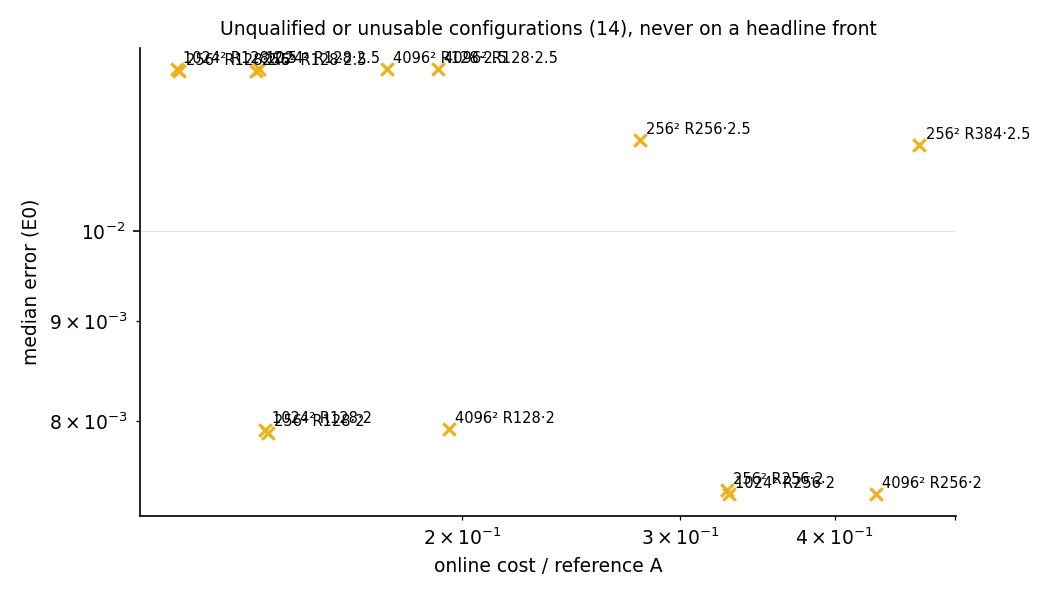
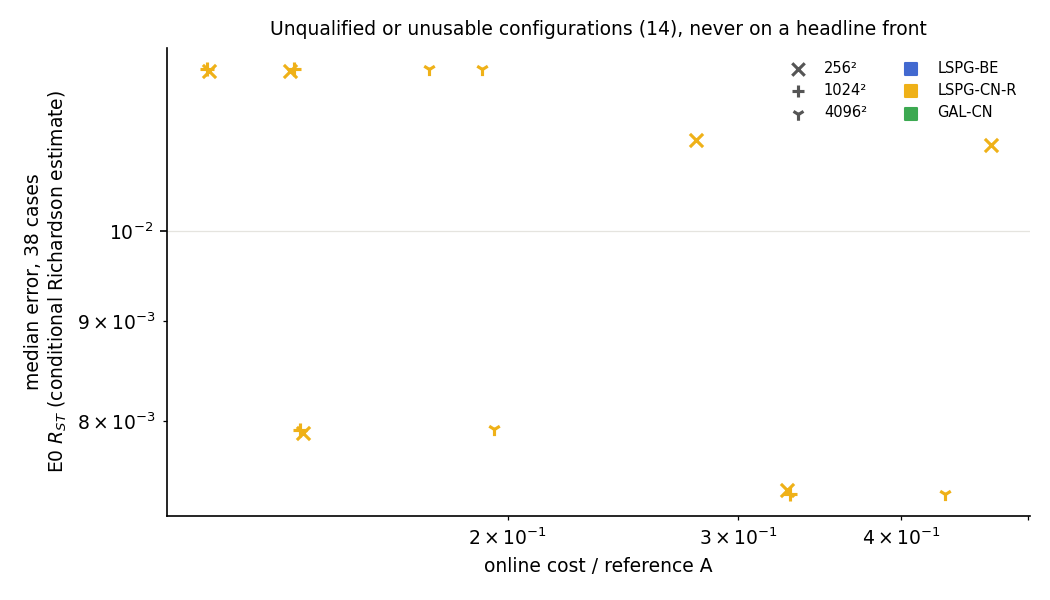
mirror of b1feb6336: jcp-qualify: report audit 1 fixes (dominance formula, round-limit disclosure, E0 caveats near tables, plots incl. error vs N and conditioning, glossary, LaTeX)

diff --git a/experiments/jcp-qualify/make_report.py b/experiments/jcp-qualify/make_report.py
@@ -30,6 +30,10 @@ def g(x, d=3):
     return '—' if x is None else (f'{x:.{d}g}' if isinstance(x, (int, float)) else str(x))
 
 
+def olab(x):
+    return str(x).replace('dt0..dt0/4', '$\\Delta t_0\\dots\\Delta t_0/4$')
+
+
 def esc(x):
     return str(x).replace('|', ' \\| ')
 
@@ -73,7 +77,9 @@ def plots():
                 ax.scatter(v['c'], v[stat], s=26 + 8 * (c['r'] // 128), color=COL[key], alpha=1 if on else .35,
                            edgecolor='#0b0b0b' if on else 'none', linewidth=.8, zorder=3 if on else 2)
                 if on:
-                    ax.annotate(f"R{c['r']}·{g(c['factor'])}", (v['c'], v[stat]), xytext=(4, 3), textcoords='offset points', fontsize=7)
+                    i_ = sorted(front, key=lambda kk: cand[kk]['c']).index(k)
+                    ax.annotate(f"R{c['r']}·{g(c['factor'])}", (v['c'], v[stat]), xytext=(5, 6 if i_ % 2 == 0 else -10),
+                                textcoords='offset points', fontsize=6.5)
             pts = sorted((cand[k]['c'], cand[k][stat]) for k in front)
             if pts:
                 ax.plot(*zip(*pts), color='#0b0b0b', lw=.8, zorder=1)
@@ -95,13 +101,17 @@ def plots():
     for m, k, v in rows:
         c = parse(k)
         if v.get('c') and v.get('median'):
-            ax.scatter(v['c'], v['median'], color=COL[c['form'] + '|' + c['scheme']], marker='x')
-            ax.annotate(f"{m}² R{c['r']}·{g(c['factor'])}", (v['c'], v['median']), xytext=(3, 3), textcoords='offset points', fontsize=7)
+            ax.scatter(v['c'], v['median'], color=COL[c['form'] + '|' + c['scheme']], marker={'256': 'x', '1024': '+', '4096': '1'}[m], s=40)
     ax.set_xscale('log')
     ax.set_yscale('log')
     ax.set_title(f'Unqualified or unusable configurations ({len(rows)}), never on a headline front', fontsize=9)
     ax.set_xlabel('online cost / reference A')
-    ax.set_ylabel('median error (E0)')
+    ax.set_ylabel(f'median error, 38 cases\n{LBL}')
+    for m, mk in (('256', 'x'), ('1024', '+'), ('4096', '1')):
+        ax.scatter([], [], marker=mk, color='#555555', label=f'{m}²')
+    for key, col in COL.items():
+        ax.scatter([], [], marker='s', color=col, label=SCH[key])
+    ax.legend(frameon=False, fontsize=7, ncol=2)
     fig.tight_layout()
     fig.savefig(pd / 'unqualified.png', dpi=150)
     plt.close(fig)
@@ -128,6 +138,53 @@ def plots():
     fig.savefig(pd / 'error_vs_r.png', dpi=150)
     plt.close(fig)
     made.append('plots/error_vs_r.png')
+    # error vs N per r (LSPG-CN-R and GAL-CN at dt0, BE at dt0), qualified only
+    fig, axs = plt.subplots(1, 3, figsize=(13, 4), sharey=True)
+    for ax, (form, sc) in zip(axs, (('LSPG', 'BE'), ('LSPG', 'CNR'), ('GAL', 'CN'))):
+        for r, col in zip((128, 256, 384, 512), ('#4269d0', '#efb118', '#3ca951', '#ff725c')):
+            for f, ls in ((1., '-'), (2., '--')):
+                xs, ys = [], []
+                for m in MESHES:
+                    v = C.get(f'{m}|R{r}|{form}|{sc}|{f:g}')
+                    if v and v['numerically_qualified']:
+                        xs.append(int(m))
+                        ys.append(v['stats']['median'])
+                if xs:
+                    ax.plot(xs, ys, marker='o', ls=ls, color=col, label=f'R{r} {g(f)}Δt₀')
+        ax.set_xscale('log', base=2)
+        ax.set_yscale('log')
+        ax.set_xticks([256, 1024, 4096])
+        ax.set_xticklabels(['256²', '1024²', '4096²'])
+        ax.set_title(SCH[form + '|' + sc], fontsize=9)
+        ax.set_xlabel('mesh N')
+    axs[0].set_ylabel(f'median error, 38 cases\n{LBL}')
+    axs[-1].legend(frameon=False, fontsize=7, ncol=2)
+    fig.tight_layout()
+    fig.savefig(pd / 'error_vs_N.png', dpi=150)
+    plt.close(fig)
+    made.append('plots/error_vs_N.png')
+    # conditioning vs r (Q3, 1024^2)
+    fig, ax = plt.subplots(figsize=(7, 4))
+    for (form, sc), mk in ((('LSPG', 'BE'), 'o'), (('LSPG', 'CNR'), 's'), (('GAL', 'CN'), '^')):
+        for f, ls in ((1., '-'), (2., '--')):
+            xs, ys = [], []
+            for r in (128, 256, 384, 512):
+                v = C.get(f'1024|R{r}|{form}|{sc}|{f:g}')
+                if v and v.get('q3'):
+                    xs.append(r)
+                    ys.append(v['q3']['J_cond_median'])
+            if xs:
+                ax.plot(xs, ys, marker=mk, ls=ls, color=COL[form + '|' + sc], label=f"{SCH[form + '|' + sc]} {g(f)}Δt₀")
+    ax.set_yscale('log')
+    ax.set_xticks([128, 256, 384, 512])
+    ax.set_xlabel('bank width r')
+    ax.set_ylabel('median cond(step Jacobian), dev6, outputs 1, 3, 5')
+    ax.set_title('Q3 conditioning at 1024² (lane configurations; P1 Δt₀ LSPG values in P1 report)', fontsize=9)
+    ax.legend(frameon=False, fontsize=7)
+    fig.tight_layout()
+    fig.savefig(pd / 'conditioning_vs_r.png', dpi=150)
+    plt.close(fig)
+    made.append('plots/conditioning_vs_r.png')
     # B4
     B4 = AN.get('B4', {})
     keys = [k for k in B4 if k != 'TH06_control' and isinstance(B4[k], dict) and 'cases' in B4[k]]
@@ -202,10 +259,10 @@ def main():
             w(f"- **Front at {m}²:** {len(f['fronts']['median|c'])} median-front and {len(f['fronts']['worst|c'])} worst-front members among {len(f['candidates'])} qualified candidates; {len(f['unqualified'])} configurations unqualified or without usable timing.")
             cnt = lambda st: ', '.join(f"{SCH[x]} {sum(1 for k in f['fronts'][st] if parse(k)['form'] + '|' + parse(k)['scheme'] == x)}" for x in SCH)
             lo = min(f['fronts']['median|c'], key=lambda k: f['candidates'][k]['median'])
-            w(f"  Median front by scheme: {cnt('median|c')}; worst front: {cnt('worst|c')}. Most accurate median-front member: {name(lo)} at {pct(f['candidates'][lo]['median'])} median, cost {g(f['candidates'][lo]['c'])}× A.")
+            w(f"  (Errors: conditional E0 estimates.) Median front by scheme: {cnt('median|c')}; worst front: {cnt('worst|c')}. Most accurate median-front member: {name(lo)} at {pct(f['candidates'][lo]['median'])} median, cost {g(f['candidates'][lo]['c'])}× A.")
     for k, v in AN.get('B4', {}).items():
         if k != 'TH06_control' and isinstance(v, dict) and isinstance(v.get('label'), dict):
-            w(f"- **B4 {k.replace('|', ' ').replace('_', ' ').replace('CNR', 'CN-R').replace('LSPG ', 'LSPG-').replace('GAL ', 'GAL-')}:** {v['label']['label']} (median p̂ {g(v['label'].get('p_median'))}, {v['label']['interpretable']} interpretable cases).")
+            w(f"- **B4 {k.replace('|', ' ').replace('_', ' ').replace('CNR', 'CN-R').replace('LSPG ', 'LSPG-').replace('GAL ', 'GAL-')}:** {olab(v['label']['label'])} (median p̂ {g(v['label'].get('p_median'))}, {v['label']['interpretable']} interpretable cases).")
     from collections import Counter
     hn = Counter(v.get('outcome') for v in AN['B1']['h_acc_n'].values())
     w(f"- **B1 H-acc-N** over {len(AN['B1']['h_acc_n'])} (r, family) tests: " + ', '.join(f'{k} {n}' for k, n in sorted(hn.items(), key=lambda x: str(x[0]))) + '.')
@@ -220,7 +277,7 @@ def main():
     if AN.get('threeD'):
         T3 = AN['threeD']
         npass = sum(v['label'] == 'pass' for v in T3['tested'].values())
-        w(f"- **3D Q2:** {npass} of {len(T3['tested'])} tested speed3d configurations pass their own successor-rule check; control fired: {T3.get('control_fired')}; {len(T3['open_candidates'])} untested candidates remain open (result label: {T3['label']}).")
+        w(f"- **3D Q2:** {npass} of {len(T3['tested'])} tested speed3d configurations pass their own successor-rule check over {len(T3['rounds'])} rounds; control fired: {T3.get('control_fired')}; round limit reached: {T3.get('round_limit_reached')} ({len(T3.get('exposed_untested_after_last_round') or [])} untested candidates still exposed on the next front); {len(T3['open_candidates'])} untested candidates remain open (result label: {T3['label']}).")
     if FR:
         w(f"- **Deliverable:** `runs/FRONT-2D.json` (sha256 `{FRSHA[:16]}…`), frozen after the results audit.")
     w('')
@@ -286,20 +343,20 @@ def main():
     for k, v in AN.get('B4', {}).items():
         if isinstance(v, dict) and 'label' in v and isinstance(v['label'], dict):
             lab = v['label']
-            w(f"| {esc(k.replace('_', ' '))} | {lab['label']} | {lab['interpretable']} | {g(lab.get('p_median'))} | {rng(lab.get('p_range'))} |")
+            w(f"| {esc(k.replace('_', ' '))} | {olab(lab['label'])} | {lab['interpretable']} | {g(lab.get('p_median'))} | {rng(lab.get('p_range'))} |")
     w('')
     w('An "order 2" label is a **finite-range observed order** over $\\Delta t_0\\dots\\Delta t_0/4$ against a same-form anchor at $\\Delta t_0/64$; for the LSPG CN family the jcp-time2 analysis predicts asymptotic order 1, which this measurement does not contradict or confirm.')
     w('')
     w('## B5: the qualified error–cost front per mesh')
     w('')
-    w('Cost = median over valid fused triplets of (full online query: input sampling, evolution, full-field decode) / mean of the two flanking runs of the reference A (r = 384, $1024^2$, LSPG-CN-R, $\\Delta t_0$), one H200 job per mesh. A candidate needs both numerical labels (accuracy job and timing job), usable timing and all 38 cases. Dominance as DESIGN §6 (5 % cost band, error margin $\\max(2\\varepsilon, 2\\%)$).')
+    w('Cost = median over valid fused triplets of (full online query: input sampling, evolution, full-field decode) / mean of the two flanking runs of the reference A (r = 384, $1024^2$, LSPG-CN-R, $\\Delta t_0$), one H200 job per mesh. A candidate needs both numerical labels (accuracy job and timing job), usable timing and all 38 cases. Dominance as DESIGN §6: $X\\succ Y$ iff $c_X\\le1.05\\,c_Y$, $e_X\\le e_Y+\\tau_{XY}$ and ($c_X<c_Y/1.05$ or $e_X<e_Y-\\tau_{XY}$), with $\\tau_{XY}=\\max\\big(2\\max(\\bar\\varepsilon_X,\\bar\\varepsilon_Y),\\,0.02\\max(e_X,e_Y)\\big)$. Errors are conditional E0 estimates.')
     w('')
     for m in MESHES:
         f = AN.get('fronts', {}).get(m, {})
         if 'members' not in f:
             w(f'- {m}²: {f.get("status")}')
             continue
-        w(f'**{m}²**')
+        w(f'**{m}²** (errors: conditional E0 $R_{{ST}}$ estimates)')
         w('')
         w('| configuration | front | cost / A | evolution / A | median e | worst e | role |')
         w('|---|---|---|---|---|---|---|')
@@ -327,6 +384,8 @@ def main():
         w('')
         c = T3.get('control', {})
         w(f"Under-resolved control (W512 lat8192 → lat16384): label {c.get('label')}, worst distance {g(c.get('worst_dist_qp'))}, fired {c.get('passed')}.")
+        w('')
+        w(f"Round limit reached: {T3.get('round_limit_reached')}; untested candidates exposed on the next front after the last round: {len(T3.get('exposed_untested_after_last_round') or [])} (listed in `checks/analysis.json`, `threeD.exposed_untested_after_last_round`).")
         w('')
         w(f"Qualified subset front (median): {', '.join('`' + x + '`' for x in T3['qualified_subset_front']['median']) or 'none'}; (worst): {', '.join('`' + x + '`' for x in T3['qualified_subset_front']['worst']) or 'none'}. Open candidates: {len(T3['open_candidates'])}.")
         w('')
@@ -368,13 +427,13 @@ def main():
         ('Δt₀, factor', 'Δt₀ = 0.005; a configuration runs at factor × Δt₀ (1, 2, and the registered larger step: 2.5 for LSPG-BE and LSPG-CN-R, 5 for GAL-CN).'),
         ('LSPG-BE, LSPG-CN-R, GAL-CN, TH06', 'least-squares Petrov–Galerkin backward Euler; LSPG Crank–Nicolson with two backward-Euler start-up steps; Galerkin Crank–Nicolson; θ-method θ = 0.6 (a first-order control).'),
         ('E0 R_ST, ε_ref', 'second-order space–time reference (primary); its per-case uncertainty, a conditional Richardson estimate, not a bound.'),
-        ('e, median e, worst e', 'e = max over the five evolved outputs of ‖u − R‖ / ‖R(t₀)‖ on the 257² scoring lattice; median / worst over the 38 cases.'),
+        ('e, median e, worst e', '$e=\\max_{k=1..5}\\lVert u(t_k)-R(t_k)\\rVert/\\lVert R(t_0)\\rVert$ on the 257² scoring lattice (2D); median / worst over the 38 cases.'),
         ('Q1', 'solver qualification: every run valid, ≤ 1 % of steps not certified (LSPG stationarity ratio ≤ 10⁻³; GAL relative Galerkin residual ≤ 10⁻⁸), distance to a tight solve ≤ 2.5·10⁻⁴ on every case, tight/tighter ≤ 2.5·10⁻⁵ on dev6.'),
-        ('Q2', 'quadrature qualification on 16 cases: replay with the next finer rule within 2.5·10⁻⁴, own-state ρ ≤ 0.116, and the finer rule converged against the next one.'),
+        ('Q2 (2D)', 'quadrature qualification on 16 cases: replay with the next finer rule within $2.5\\times10^{-4}$, own-state $\\rho\\le0.116$, and the finer rule converged against the next one.'),
         ('Q3, cond(J)', 'conditioning: condition number of the scheme\'s step Jacobian at outputs 1, 3, 5 of the dev6 trajectories.'),
         ('ρ', 'relative change of the tested advection vector between a rule and its successor at the configuration\'s own output states.'),
         ('numerically qualified', 'Q1 and Q2 pass (and the reproduction gate where one applies).'),
-        ('repro', 'registered gate: the lane\'s run equals combined\'s archived coefficients to ≤ 10⁻¹⁰ after numerical-manifest equality.'),
+        ('repro', 'registered gates: 2D, the lane\'s run equals combined\'s archived coefficients to $\\le10^{-10}$ after numerical-manifest equality; 3D, the rerun with the configuration\'s own rule equals speed3d\'s archive to $\\le10^{-10}$.'),
         ('cost / A, evolution / A', 'paired timing ratios against the reference configuration A in the same job and GPU (full query; evolution only).'),
         ('front (median, worst)', 'qualified candidates not dominated by any other at the same mesh under the DESIGN §6 rule, for the median or the worst error.'),
         ('role', 'pre-declared descriptive label against the same-r LSPG-BE at Δt₀: fast-equal-accuracy (cost ≤ 0.6, ties or beats both errors) or accurate-equal-cost (cost ≤ 1.1, lower median).'),
@@ -384,6 +443,15 @@ def main():
         ('q, q⁺, q⁺⁺', 'a configuration\'s quadrature rule, its successor and the check rule (next entries of the rule ladder).'),
         ('open candidates (3D)', 'untested 3D configurations not dominated (median and worst) by any Q2-passed configuration.'),
         ('fallback rule', 'the registered one-level replacement of a rule that failed Q2 by its successor.'),
+        ('n', 'number of E0-eligible cases in a statistic (38 here for every configuration).'),
+        ('dev6, val32, 16-case subset', 'the 6 development and 32 validation cases of the 2D cohorts; the subset is dev6 plus val32 cases 0–9.'),
+        ('P256, P4096, sensitivity (P4096 on 38)', 'H-acc-N case pairs: 256² vs 1024² on 38 cases; 4096² vs 1024² on the registered 16-case subset; the same on all 38 cases, reported without a verdict.'),
+        ('3D settings (M2_512, W256 … W1024)', 'speed3d bank / width settings: the M2 bank at r = 512, and prefixes of width 256–1024 of the W1024 bank, at 65³.'),
+        ('3D rules (glN, latN)', 'Gauss tensor rules with N³ points; rank-1 lattice rules with N points.'),
+        ('3D solver specs (fs, qn, K, k)', 'fixed-sweep Gauss–Newton (fs) with K full sweeps per step; quasi-Newton (qn) with Jacobian refresh every k iterations; followed by scheme (BE, CN, BDF2) and step.'),
+        ('3D error and distance', 'max over the five evolved outputs of the relative ℓ² difference on the 63³ scoring lattice, normalised by the initial field; errors against E0 $R_{ST}$ over the 64 cases of cohort 923801.'),
+        ('Q2-3D', 'successor-rule replay within 2.5·10⁻⁴ on all 64 cases, own-state ρ ≤ 0.116, and the successor converged against the next rule on cases 0–7.'),
+        ('round limit, exposed', 'Q2-3D ran in at most three rounds; "exposed" candidates are untested configurations on the front of the untested-plus-passed set after the last round.'),
     ]:
         w(f'- **{t}**: {d}')
     (HERE / 'report.md').write_text('\n'.join(L) + '\n')

diff --git a/experiments/jcp-qualify/analyze.py b/experiments/jcp-qualify/analyze.py
@@ -536,8 +536,12 @@ def q3d():
     ctrl_ok = bool(out.get('control', {}).get('passed'))
     if not ctrl_ok:                                        # the 3D under-resolved control blocks Q2-3D and B5-3D (A1.8)
         fm, fw = [], []
+    exposed = [m['key'] for m in F3.round_next({k: v['label'] for k, v in tested.items()})]
+    out['round_limit_reached'] = bool(len(out['rounds']) >= 3 and exposed)
+    out['exposed_untested_after_last_round'] = exposed
     out.update(tested=tested, qualified_subset_front=dict(median=fm, worst=fw), open_candidates=open_, control_fired=ctrl_ok,
-               label='qualified subset of the tested candidates (never a completeness claim, A2.1)',
+               label='qualified subset of the tested candidates (never a completeness claim, A2.1)' +
+                     ('; round limit reached (A1.1: three rounds)' if out['round_limit_reached'] else ''),
                contract='speed3d screening contract: full-field 65^3 mesh-path rollout; ratios from separate jobs against C_old')
     return out
 
@@ -675,7 +679,9 @@ def main():
                threeD=None if out['threeD'] is None else dict(label=out['threeD']['label'], contract=out['threeD']['contract'],
                                                              tested={k: v['label'] for k, v in out['threeD']['tested'].items()},
                                                              front=out['threeD']['qualified_subset_front'],
-                                                             open_candidates=len(out['threeD']['open_candidates'])))
+                                                             open_candidates=len(out['threeD']['open_candidates']),
+                                                             round_limit_reached=out['threeD'].get('round_limit_reached'),
+                                                             exposed_untested=out['threeD'].get('exposed_untested_after_last_round')))
     (RUNS / 'EXPORT.json').write_text(json.dumps(exp, indent=1, default=str) + '\n')
     print('configurations', len(cfgs), 'qualified', sum(v['numerically_qualified'] for v in cfgs.values()))
 

diff --git a/experiments/jcp-qualify/report.md b/experiments/jcp-qualify/report.md
@@ -8,23 +8,23 @@ GPU-hours spent: 4.13 of the 35 cap (16 jobs; `runs/GPU-LEDGER.json`).
 
 - **Q1/Q2 (2D):** 98 of 112 configurations numerically qualified (Q1 solver + Q2 quadrature; P1's certified configurations are cited).
 - **Front at 256²:** 7 median-front and 7 worst-front members among 32 qualified candidates; 6 configurations unqualified or without usable timing.
-  Median front by scheme: LSPG-BE 1, LSPG-CN-R 0, GAL-CN 6; worst front: LSPG-BE 2, LSPG-CN-R 2, GAL-CN 3. Most accurate median-front member: R384 GAL-CN 1Δt₀ at 0.0504 % median, cost 1.31× A.
+  (Errors: conditional E0 estimates.) Median front by scheme: LSPG-BE 1, LSPG-CN-R 0, GAL-CN 6; worst front: LSPG-BE 2, LSPG-CN-R 2, GAL-CN 3. Most accurate median-front member: R384 GAL-CN 1Δt₀ at 0.0504 % median, cost 1.31× A.
 - **Front at 1024²:** 7 median-front and 7 worst-front members among 33 qualified candidates; 4 configurations unqualified or without usable timing.
-  Median front by scheme: LSPG-BE 1, LSPG-CN-R 0, GAL-CN 6; worst front: LSPG-BE 2, LSPG-CN-R 3, GAL-CN 2. Most accurate median-front member: R384 GAL-CN 1Δt₀ at 0.0495 % median, cost 1.31× A.
+  (Errors: conditional E0 estimates.) Median front by scheme: LSPG-BE 1, LSPG-CN-R 0, GAL-CN 6; worst front: LSPG-BE 2, LSPG-CN-R 3, GAL-CN 2. Most accurate median-front member: R384 GAL-CN 1Δt₀ at 0.0495 % median, cost 1.31× A.
 - **Front at 4096²:** 7 median-front and 8 worst-front members among 33 qualified candidates; 4 configurations unqualified or without usable timing.
-  Median front by scheme: LSPG-BE 1, LSPG-CN-R 0, GAL-CN 6; worst front: LSPG-BE 3, LSPG-CN-R 3, GAL-CN 2. Most accurate median-front member: R384 GAL-CN 1Δt₀ at 0.0497 % median, cost 1.5× A.
+  (Errors: conditional E0 estimates.) Median front by scheme: LSPG-BE 1, LSPG-CN-R 0, GAL-CN 6; worst front: LSPG-BE 3, LSPG-CN-R 3, GAL-CN 2. Most accurate median-front member: R384 GAL-CN 1Δt₀ at 0.0497 % median, cost 1.5× A.
 - **B4 R128 LSPG-BE:** order 1 (median p̂ 1, 6 interpretable cases).
 - **B4 R128 LSPG-CN-R:** observed order, no integer label (median p̂ 1.74, 5 interpretable cases).
-- **B4 R128 GAL-CN:** order 2 (finite-range observed order over dt0..dt0/4) (median p̂ 2, 6 interpretable cases).
+- **B4 R128 GAL-CN:** order 2 (finite-range observed order over $\Delta t_0\dots\Delta t_0/4$) (median p̂ 2, 6 interpretable cases).
 - **B4 R384 LSPG-BE:** order 1 (median p̂ 1.01, 6 interpretable cases).
-- **B4 R384 LSPG-CN-R:** order 2 (finite-range observed order over dt0..dt0/4) (median p̂ 1.96, 6 interpretable cases).
-- **B4 R384 GAL-CN:** order 2 (finite-range observed order over dt0..dt0/4) (median p̂ 2, 6 interpretable cases).
+- **B4 R384 LSPG-CN-R:** order 2 (finite-range observed order over $\Delta t_0\dots\Delta t_0/4$) (median p̂ 1.96, 6 interpretable cases).
+- **B4 R384 GAL-CN:** order 2 (finite-range observed order over $\Delta t_0\dots\Delta t_0/4$) (median p̂ 2, 6 interpretable cases).
 - **B4 R384 GAL-TH06:** order 1 (median p̂ 0.998, 6 interpretable cases).
 - **B1 H-acc-N** over 30 (r, family) tests: inconclusive 4, inconclusive (unqualified configuration) 5, pass 21.
 - **B1 H-acc-r** over 27 (mesh, family) cells: range 128–384 inconclusive 10, monotone 14, not monotone 3; range 128–512 inconclusive 7, not monotone 20.
 - **Roles (descriptive):** 5 fast-equal-accuracy and 30 accurate-equal-cost labels among 98 qualified configurations with usable timing.
 - **B4 TH06 control:** label order 1, interpretable 6, agrees with smoke True → passed.
-- **3D Q2:** 4 of 55 tested speed3d configurations pass their own successor-rule check; control fired: True; 146 untested candidates remain open (result label: qualified subset of the tested candidates (never a completeness claim, A2.1)).
+- **3D Q2:** 4 of 55 tested speed3d configurations pass their own successor-rule check over 3 rounds; control fired: True; round limit reached: True (16 untested candidates still exposed on the next front); 146 untested candidates remain open (result label: qualified subset of the tested candidates (never a completeness claim, A2.1); round limit reached (A1.1: three rounds)).
 - **Deliverable:** `runs/FRONT-2D.json` (sha256 `a51ac1a250f00d4b…`), frozen after the results audit.
 
 ```mermaid
@@ -256,19 +256,19 @@ Counts in brackets: improve / worsen / tie / unqualified cases. P1's own verdict
 |---|---|---|---|---|
 | R128 \| LSPG BE | order 1 | 6 | 1 | 0.948–1.02 |
 | R128 \| LSPG CNR | observed order, no integer label | 5 | 1.74 | 1.72–1.94 |
-| R128 \| GAL CN | order 2 (finite-range observed order over dt0..dt0/4) | 6 | 2 | 2–2.01 |
+| R128 \| GAL CN | order 2 (finite-range observed order over $\Delta t_0\dots\Delta t_0/4$) | 6 | 2 | 2–2.01 |
 | R384 \| LSPG BE | order 1 | 6 | 1.01 | 0.977–1.02 |
-| R384 \| LSPG CNR | order 2 (finite-range observed order over dt0..dt0/4) | 6 | 1.96 | 1.88–2 |
-| R384 \| GAL CN | order 2 (finite-range observed order over dt0..dt0/4) | 6 | 2 | 2–2.01 |
+| R384 \| LSPG CNR | order 2 (finite-range observed order over $\Delta t_0\dots\Delta t_0/4$) | 6 | 1.96 | 1.88–2 |
+| R384 \| GAL CN | order 2 (finite-range observed order over $\Delta t_0\dots\Delta t_0/4$) | 6 | 2 | 2–2.01 |
 | R384 \| GAL TH06 | order 1 | 6 | 0.998 | 0.967–1.02 |
 
 An "order 2" label is a **finite-range observed order** over $\Delta t_0\dots\Delta t_0/4$ against a same-form anchor at $\Delta t_0/64$; for the LSPG CN family the jcp-time2 analysis predicts asymptotic order 1, which this measurement does not contradict or confirm.
 
 ## B5: the qualified error–cost front per mesh
 
-Cost = median over valid fused triplets of (full online query: input sampling, evolution, full-field decode) / mean of the two flanking runs of the reference A (r = 384, $1024^2$, LSPG-CN-R, $\Delta t_0$), one H200 job per mesh. A candidate needs both numerical labels (accuracy job and timing job), usable timing and all 38 cases. Dominance as DESIGN §6 (5 % cost band, error margin $\max(2\varepsilon, 2\%)$).
+Cost = median over valid fused triplets of (full online query: input sampling, evolution, full-field decode) / mean of the two flanking runs of the reference A (r = 384, $1024^2$, LSPG-CN-R, $\Delta t_0$), one H200 job per mesh. A candidate needs both numerical labels (accuracy job and timing job), usable timing and all 38 cases. Dominance as DESIGN §6: $X\succ Y$ iff $c_X\le1.05\,c_Y$, $e_X\le e_Y+\tau_{XY}$ and ($c_X<c_Y/1.05$ or $e_X<e_Y-\tau_{XY}$), with $\tau_{XY}=\max\big(2\max(\bar\varepsilon_X,\bar\varepsilon_Y),\,0.02\max(e_X,e_Y)\big)$. Errors are conditional E0 estimates.
 
-**256²**
+**256²** (errors: conditional E0 $R_{ST}$ estimates)
 
 | configuration | front | cost / A | evolution / A | median e | worst e | role |
 |---|---|---|---|---|---|---|
@@ -307,7 +307,7 @@ Cost = median over valid fused triplets of (full online query: input sampling, e
 
 Not on any headline front (separate panel): R128 LSPG-CN-R 2Δt₀ (accuracy label); R128 LSPG-CN-R 2.5Δt₀ (accuracy label); R256 LSPG-CN-R 2Δt₀ (accuracy label); R256 LSPG-CN-R 2.5Δt₀ (accuracy label); R384 LSPG-CN-R 2.5Δt₀ (accuracy label); R128 LSPG-CN-R 2.5Δt₀ (fallback rule) (accuracy label)
 
-**1024²**
+**1024²** (errors: conditional E0 $R_{ST}$ estimates)
 
 | configuration | front | cost / A | evolution / A | median e | worst e | role |
 |---|---|---|---|---|---|---|
@@ -347,7 +347,7 @@ Not on any headline front (separate panel): R128 LSPG-CN-R 2Δt₀ (accuracy lab
 
 Not on any headline front (separate panel): R128 LSPG-CN-R 2Δt₀ (accuracy label); R128 LSPG-CN-R 2.5Δt₀ (accuracy label); R256 LSPG-CN-R 2Δt₀ (accuracy label); R128 LSPG-CN-R 2.5Δt₀ (fallback rule) (accuracy label)
 
-**4096²**
+**4096²** (errors: conditional E0 $R_{ST}$ estimates)
 
 | configuration | front | cost / A | evolution / A | median e | worst e | role |
 |---|---|---|---|---|---|---|
@@ -389,7 +389,7 @@ Not on any headline front (separate panel): R128 LSPG-CN-R 2Δt₀ (accuracy lab
 
 ## 3D: Q2 of speed3d's front members and winners
 
-Contract: speed3d screening contract: full-field 65^3 mesh-path rollout; ratios from separate jobs against C_old. Label: **qualified subset of the tested candidates (never a completeness claim, A2.1)**. Q1 is speed3d's eligibility (cited).
+Contract: speed3d screening contract: full-field 65^3 mesh-path rollout; ratios from separate jobs against C_old. Label: **qualified subset of the tested candidates (never a completeness claim, A2.1); round limit reached (A1.1: three rounds)**. Q1 is speed3d's eligibility (cited).
 
 | configuration | Q2-3D | worst q vs q⁺ distance | ρ max | q⁺ vs q⁺⁺ | reproduction |
 |---|---|---|---|---|---|
@@ -451,6 +451,8 @@ Contract: speed3d screening contract: full-field 65^3 mesh-path rollout; ratios 
 
 Under-resolved control (W512 lat8192 → lat16384): label fail, worst distance 0.0043, fired True.
 
+Round limit reached: True; untested candidates exposed on the next front after the last round: 16 (listed in `checks/analysis.json`, `threeD.exposed_untested_after_last_round`).
+
 Qualified subset front (median): `W256|lat8192|qn|BDF2|0.025|k4`, `W256|gl24|fs|CN|0.0125|K1`, `W256|gl24|fs|CN|0.01|K1`; (worst): `W256|lat8192|qn|BDF2|0.025|k4`, `W512|lat16384|qn|BDF2|0.025|k4`. Open candidates: 146.
 
 ## Controls
@@ -480,6 +482,8 @@ Real-size smoke acceptance (`checks/smoke-accept.json`): 85 of 85 required contr
 ![plots/front2d_worst.png](plots/front2d_worst.png)
 ![plots/unqualified.png](plots/unqualified.png)
 ![plots/error_vs_r.png](plots/error_vs_r.png)
+![plots/error_vs_N.png](plots/error_vs_N.png)
+![plots/conditioning_vs_r.png](plots/conditioning_vs_r.png)
 ![plots/order_b4.png](plots/order_b4.png)
 ![plots/front3d.png](plots/front3d.png)
 
@@ -490,13 +494,13 @@ Real-size smoke acceptance (`checks/smoke-accept.json`): 85 of 85 required contr
 - **Δt₀, factor**: Δt₀ = 0.005; a configuration runs at factor × Δt₀ (1, 2, and the registered larger step: 2.5 for LSPG-BE and LSPG-CN-R, 5 for GAL-CN).
 - **LSPG-BE, LSPG-CN-R, GAL-CN, TH06**: least-squares Petrov–Galerkin backward Euler; LSPG Crank–Nicolson with two backward-Euler start-up steps; Galerkin Crank–Nicolson; θ-method θ = 0.6 (a first-order control).
 - **E0 R_ST, ε_ref**: second-order space–time reference (primary); its per-case uncertainty, a conditional Richardson estimate, not a bound.
-- **e, median e, worst e**: e = max over the five evolved outputs of ‖u − R‖ / ‖R(t₀)‖ on the 257² scoring lattice; median / worst over the 38 cases.
+- **e, median e, worst e**: $e=\max_{k=1..5}\lVert u(t_k)-R(t_k)\rVert/\lVert R(t_0)\rVert$ on the 257² scoring lattice (2D); median / worst over the 38 cases.
 - **Q1**: solver qualification: every run valid, ≤ 1 % of steps not certified (LSPG stationarity ratio ≤ 10⁻³; GAL relative Galerkin residual ≤ 10⁻⁸), distance to a tight solve ≤ 2.5·10⁻⁴ on every case, tight/tighter ≤ 2.5·10⁻⁵ on dev6.
-- **Q2**: quadrature qualification on 16 cases: replay with the next finer rule within 2.5·10⁻⁴, own-state ρ ≤ 0.116, and the finer rule converged against the next one.
+- **Q2 (2D)**: quadrature qualification on 16 cases: replay with the next finer rule within $2.5\times10^{-4}$, own-state $\rho\le0.116$, and the finer rule converged against the next one.
 - **Q3, cond(J)**: conditioning: condition number of the scheme's step Jacobian at outputs 1, 3, 5 of the dev6 trajectories.
 - **ρ**: relative change of the tested advection vector between a rule and its successor at the configuration's own output states.
 - **numerically qualified**: Q1 and Q2 pass (and the reproduction gate where one applies).
-- **repro**: registered gate: the lane's run equals combined's archived coefficients to ≤ 10⁻¹⁰ after numerical-manifest equality.
+- **repro**: registered gates: 2D, the lane's run equals combined's archived coefficients to $\le10^{-10}$ after numerical-manifest equality; 3D, the rerun with the configuration's own rule equals speed3d's archive to $\le10^{-10}$.
 - **cost / A, evolution / A**: paired timing ratios against the reference configuration A in the same job and GPU (full query; evolution only).
 - **front (median, worst)**: qualified candidates not dominated by any other at the same mesh under the DESIGN §6 rule, for the median or the worst error.
 - **role**: pre-declared descriptive label against the same-r LSPG-BE at Δt₀: fast-equal-accuracy (cost ≤ 0.6, ties or beats both errors) or accurate-equal-cost (cost ≤ 1.1, lower median).
@@ -506,3 +510,12 @@ Real-size smoke acceptance (`checks/smoke-accept.json`): 85 of 85 required contr
 - **q, q⁺, q⁺⁺**: a configuration's quadrature rule, its successor and the check rule (next entries of the rule ladder).
 - **open candidates (3D)**: untested 3D configurations not dominated (median and worst) by any Q2-passed configuration.
 - **fallback rule**: the registered one-level replacement of a rule that failed Q2 by its successor.
+- **n**: number of E0-eligible cases in a statistic (38 here for every configuration).
+- **dev6, val32, 16-case subset**: the 6 development and 32 validation cases of the 2D cohorts; the subset is dev6 plus val32 cases 0–9.
+- **P256, P4096, sensitivity (P4096 on 38)**: H-acc-N case pairs: 256² vs 1024² on 38 cases; 4096² vs 1024² on the registered 16-case subset; the same on all 38 cases, reported without a verdict.
+- **3D settings (M2_512, W256 … W1024)**: speed3d bank / width settings: the M2 bank at r = 512, and prefixes of width 256–1024 of the W1024 bank, at 65³.
+- **3D rules (glN, latN)**: Gauss tensor rules with N³ points; rank-1 lattice rules with N points.
+- **3D solver specs (fs, qn, K, k)**: fixed-sweep Gauss–Newton (fs) with K full sweeps per step; quasi-Newton (qn) with Jacobian refresh every k iterations; followed by scheme (BE, CN, BDF2) and step.
+- **3D error and distance**: max over the five evolved outputs of the relative ℓ² difference on the 63³ scoring lattice, normalised by the initial field; errors against E0 $R_{ST}$ over the 64 cases of cohort 923801.
+- **Q2-3D**: successor-rule replay within 2.5·10⁻⁴ on all 64 cases, own-state ρ ≤ 0.116, and the successor converged against the next rule on cases 0–7.
+- **round limit, exposed**: Q2-3D ran in at most three rounds; "exposed" candidates are untested configurations on the front of the untested-plus-passed set after the last round.

diff --git a/experiments/jcp-qualify/audits/codex-report-1.md b/experiments/jcp-qualify/audits/codex-report-1.md
@@ -1,0 +1,31 @@
+**Overall: NEEDS-FIX. Numerical results check out; report fixes remain.**
+
+| Item | Verdict | Evidence |
+|---|---|---|
+| Round-3 passes | **CORRECT** | Independently recomputed from coefficients on CPU: all successor/finer distances and all 64×6 rho values agree with job evidence; offline checks agree. Reproduction errors ≤1.86e-15. |
+| All 55 labels | **CORRECT** | Rounds contain 17/20/18 configurations; passes 0/1/3. All labels and round selections match. |
+| Qualified-subset fronts/open candidates | **CORRECT** | Recomputed over the 436-candidate universe: 3 median-front members, 2 worst-front members, 146 open candidates. |
+| Stopping disclosure | **NEEDS-FIX** | Three rounds exhausted; 16 untested candidates remain exposed on the next front. “Round limit reached” is absent from analysis label, report and EXPORT. |
+| Report numbers | **CORRECT** | All 329 result-table rows and 16 job rows match sources. Summary counts, 4.1338 GPU-h and 85/85 controls agree. No hand-typed empirical results found. |
+| Qualification/role/front separation | **CORRECT** | Distinct labels and columns maintained. |
+| Corrections | **CORRECT** | Combined CN-R fast arms fail Q1; both speed3d H2 winners fail Q2-3D; P1 has no numerical retraction. |
+| Order/subset wording | **CORRECT** | Order-2 claims explicitly finite-range; 3D never claims completeness. |
+| EXPORT/frozen FRONT-2D | **CORRECT** | EXPORT projections agree. Frozen front’s hash, candidates, labels, errors, timings and fronts match final analysis; SHA starts `a51ac1a250f00d4b`. |
+
+Round-3 raw recomputation:
+
+| Configuration | Successor distance | Finer distance | rho max |
+|---|---:|---:|---:|
+| W256 lat8192 QN BDF2 .025 k4 | 2.04729e-4 | 8.93834e-6 | .00423928 |
+| W256 gl24 FS CN .0125 K1 | 1.50979e-4 | 6.95220e-6 | .00446134 |
+| W512 lat16384 QN BDF2 .025 k4 | 2.00785e-4 | 1.79531e-5 | .00282965 |
+
+**Ranked must-fix:**
+
+1. **WRONG — dominance formula.** [Report line 269](/home/tahmid/Dev/Tunable-NM-ROM-Claude/worktrees/2026-10-18-jcp-qualify/experiments/jcp-qualify/report.md:269) prints $\max(2\varepsilon,2\%)$. Registered/code formula is $\max(2\max(\bar\varepsilon_X,\bar\varepsilon_Y),0.02\max(e_X,e_Y))$. Computed fronts are unaffected.
+2. **NEEDS-FIX — stopping disclosure.** Explicitly state three-round limit reached; identify/link the remaining exposed candidates.
+3. **NEEDS-FIX — adjacent E0 caveats.** Summary accuracy numbers, B5 tables and `unqualified.png` lack nearby conditional wording; the preamble alone is insufficient.
+4. **NEEDS-FIX — plots.** Unqualified-panel annotations overlap badly; worst-front labels also collide. DESIGN §9’s error-versus-N and conditioning-versus-r plots are missing.
+5. **NEEDS-FIX — glossary/LaTeX.** Missing definitions include `n`, P4096/sensitivity, dev6/val32, FS/QN/K/k and 3D bank/rule identifiers. Existing error/Q2/reproduction definitions describe only 2D. Glossary formulas and `dt0..dt0/4` labels need LaTeX.
+
+Mermaid is present and color-coded. No prohibited historical Burgers speed-up or heat comparison found. No files changed, scratch written, GPU used or cluster jobs launched.
